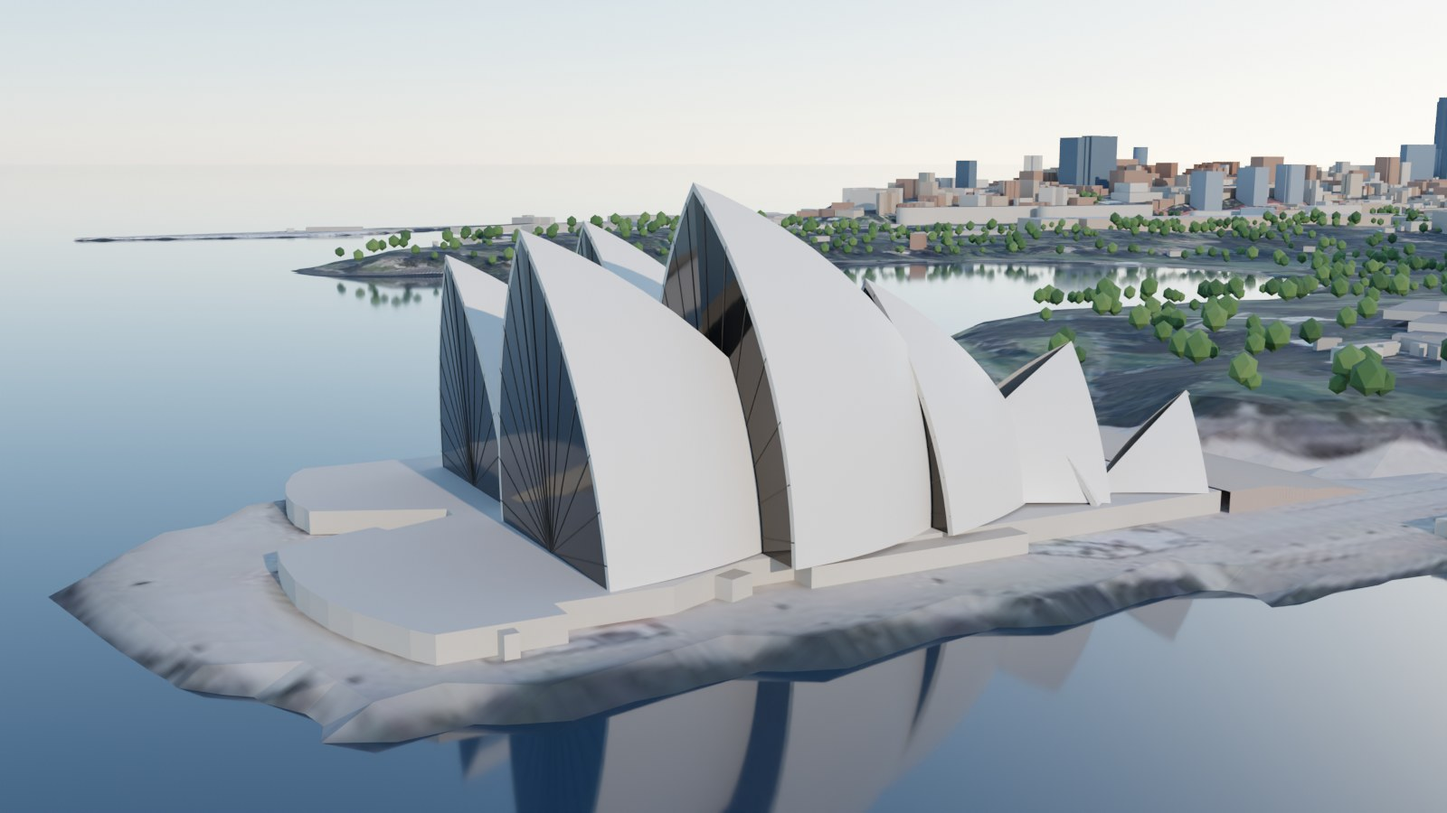
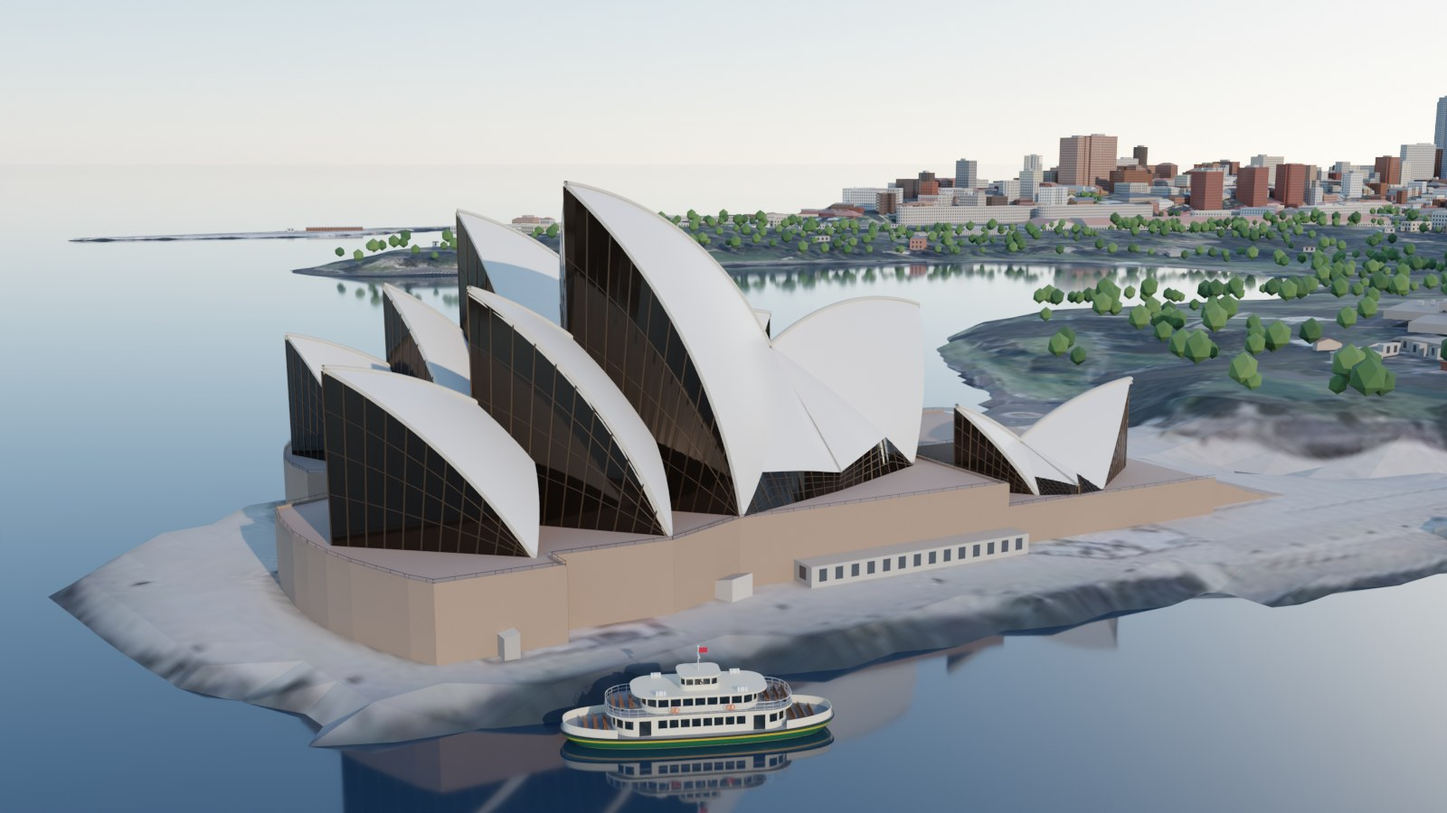
Sydney docs: the rebuilt Opera House, the steps and the gulls
The case study, the game notes, the architecture and the guide to adding a
city describe the Opera House on its mapped ridges, the two-level podium and
its flights, the granite pattern and paving laid over a roof, and the flocks
of gulls. The Monumental Steps picture is retaken in the game, the gulls get
one of their own, and the Cycles render of the Opera House is redone.

In the Blender twin, ferries without a livery of their own now take the
city's ferry_style colours, as they do in the game. In the game, a gull's
body pitches about its hips while its legs stay upright, and the birds follow
the ground as it slopes towards the seawall.

diff --git a/web/game/gulls.js b/web/game/gulls.js
@@ -104,7 +104,7 @@ window.OEGulls = (function () {
       C[i].home = [C[i].x, C[i].y];
     }
     const m4 = new THREE.Matrix4(), q = new THREE.Quaternion(), e = new THREE.Euler(), v3 = new THREE.Vector3(), one = new THREE.Vector3(1, 1, 1), zero = new THREE.Matrix4().makeScale(0, 0, 0);
-    const shoulder = new THREE.Matrix4(), flapM = new THREE.Matrix4(), base = new THREE.Matrix4();
+    const shoulder = new THREE.Matrix4(), flapM = new THREE.Matrix4(), base = new THREE.Matrix4(), bodyM = new THREE.Matrix4(), hip = new THREE.Matrix4(), tilt = new THREE.Matrix4();
     // the birds: on the ground (pecking, walking, squabbling, on the seawall) or in the air (circling, hanging in the wind, landing)
     const G = [];
     for (let i = 0; i < n; i++) {
@@ -178,9 +178,10 @@ window.OEGulls = (function () {
           }
           continue;
         }
-        // on the ground
+        // on the ground, which slopes towards the seawall
         g.t -= dt;
         g.roll *= Math.exp(-dt * 6);
+        g.z = zAt(g.x, g.y);
         if (g.task === 'perch') { // on the seawall, looking out over the water
           g.h = g.perch.h + Math.sin(lastT * 0.6 + g.i * 3) * 0.5;
           if (g.t < 0) { if (dark < 0.6 && rnd() < 0.5) takeOff(g); else { g.perch.taken = false; g.perch = null; g.task = 'walk'; g.tx = boxAt.x + (rnd() - 0.5) * 2; g.ty = boxAt.y + (rnd() - 0.5) * 2; } }
@@ -194,9 +195,9 @@ window.OEGulls = (function () {
             g.task = 'peck'; g.t = 2 + rnd() * 6;
           }
         } else if (g.task === 'squabble') { // wings up and a shout at a neighbour
-          g.wing = 1.05 + 0.25 * Math.sin(lastT * 14);
-          g.z = zAt(g.x, g.y) + Math.abs(Math.sin(lastT * 7)) * 0.08;
-          if (g.t < 0) { g.wing = 0; g.z = zAt(g.x, g.y); g.task = 'walk'; const a = rnd() * 6.28; g.tx = g.x + Math.sin(a) * 0.9; g.ty = g.y + Math.cos(a) * 0.9; }
+          g.wing = 0.7 + 0.35 * Math.sin(lastT * 16 + g.i);
+          g.z += Math.abs(Math.sin(lastT * 7)) * 0.08;
+          if (g.t < 0) { g.wing = 0; g.task = 'walk'; const a = rnd() * 6.28; g.tx = g.x + Math.sin(a) * 0.9; g.ty = g.y + Math.cos(a) * 0.9; }
         } else { // pecking at the chips
           g.peck += dt * (1.1 + g.i % 3 * 0.25);
           const ph = g.peck % 1;
@@ -221,20 +222,22 @@ window.OEGulls = (function () {
       const cnt = [0, 0];
       for (const g of G) {
         const ty = g.young ? 1 : 0, k = cnt[ty]++;
-        e.set(g.pitch, Math.PI - g.h, g.roll, 'YXZ'); q.setFromEuler(e);
+        e.set(0, Math.PI - g.h, g.roll, 'YXZ'); q.setFromEuler(e);
         base.compose(W(g.x, g.y, g.z), q, v3.set(g.k, g.k, g.k));
-        meshes.body[ty].setMatrixAt(k, base);
         meshes.legs[ty].setMatrixAt(k, g.air ? zero : base);
+        // the body pitches about the hips (pecking, or nose up in the air), the legs stay upright
+        bodyM.multiplyMatrices(base, hip.makeTranslation(0, 0.11, 0)).multiply(tilt.makeRotationX(g.pitch)).multiply(hip.makeTranslation(0, -0.11, 0));
+        meshes.body[ty].setMatrixAt(k, bodyM);
         const spread = g.air || g.wing > 0.01;
         for (const [m, s] of [[meshes.wingL, 1], [meshes.wingR, -1]]) {
           if (!spread) { m.setMatrixAt(g.i, zero); continue; }
           shoulder.makeTranslation(s * 0.05, 0.2, 0.035);
           flapM.makeRotationZ(s * g.wing).multiply(m4.makeScale(s, 1, 1));
-          m.setMatrixAt(g.i, m4.multiplyMatrices(base, shoulder).multiply(flapM));
+          m.setMatrixAt(g.i, m4.multiplyMatrices(bodyM, shoulder).multiply(flapM));
         }
         if (g.chip !== null) { // the chip in its bill
           const c = C[g.chip];
-          v3.set(0, 0.24, 0.2).applyMatrix4(base);
+          v3.set(0, 0.24, 0.2).applyMatrix4(bodyM);
           c.x = v3.x; c.y = -v3.z; c.z = v3.y; c.h = g.h + Math.PI / 2;
         }
       }

diff --git a/cities/sydney/city.py b/cities/sydney/city.py
@@ -109,7 +109,7 @@ SHELLS = {
     "joan_sutherland": [(-1, 39.1, 14.0, 11.3), (1, 61.1, 12.5, 19.4), (1, 47.0, 11.8, 21.5), (1, 38.0, 13.5, 18.2)],
     "restaurant": [(-1, 28.0, 19.0, 14.0), (1, 26.0, 10.6, 11.5)],
 }
-HALL_NAMES = {"concert": "Concert Hall", "joan_sutherland": "Joan Sutherland Theatre", "restaurant": "Bennelong"}
+HALL_NAMES = {"concert": "Concert Hall", "joan_sutherland": "Joan Sutherland Theatre"}
 RESTAURANT_SPLIT = 0.65  # how far along the restaurant's ridge its two shells meet, back to back
 JUNCTION_M = {"concert": 23.0, "joan_sutherland": 20.5, "restaurant": 8.0}  # how high above the podium the back-to-back shells' ridges meet
 SIDE_GLASS_M = {"concert": 6.0, "joan_sutherland": 5.5, "restaurant": 3.0}  # the glass under the side shells, at its highest

diff --git a/blender/build_scene.py b/blender/build_scene.py
@@ -250,6 +250,10 @@ def add_vehicles(data, counts):
     def livery(kind):
         I, spec = info[kind], (G.get("vehicles") or {}).get(kind, {}).get("livery")
         base = I["liveries"][I["default_livery"]]
+        style = G.get("ferry_style") or {}
+        if kind == "ferry" and spec is None and style.get("hull"):  # as the game does: the colours of the city's ferry_style
+            spec = {"hull": style["hull"], "band": style.get("trim"), "cabin": style.get("upper"), "trim": style.get("upper"), "flag": style.get("flag")}
+            spec = {k: v for k, v in spec.items() if v}
         if isinstance(spec, str):
             return I["liveries"].get(spec, base)
         return dict(base, **(spec or {}))

diff --git a/docs/ADDING_A_CITY.md b/docs/ADDING_A_CITY.md
@@ -83,7 +83,7 @@ north (y) of `origin`, with z in metres of the vertical datum.
 | `tour` | no | Stops: `{title, text, date: [M, D], from, to, hold, cam, tgt}`, or `place` instead of `cam`/`tgt`, plus `provenance: true` to colour by height source. See the tokens below |
 | `renders` | no | Blender views: `{name, cam, tgt, date: [Y, M, D], time}` |
 | `sources` | no | Extra lines for the viewer's source list, such as `{landmarks: "..."}` |
-| `game` | no | The game, if the city has one: `title`; `local_name` (what passers-by are called, such as `Melburnian`); `water_name`; `start` (`at`, `facing`); `wharves` (`id`, `name`, Overture `terminal` name); `ferries` (`route`, `stops`, `vessels`); `ferry_speed_ms`; `helipads` (`from_data: true` takes a mapped helipad, the one nearest `near` if given); `crowd` (`pedestrians`, `cars`, `radius_m`); `climate` (`mean_max_c`: the twelve monthly mean daily maximum temperatures in °C, and their `source`), which decides whether the crowd looks for sun or shade on the benches; `blurb` (the title screen's line); `boardwalks` (`name` of a mapped walkway line, or a `line` in the local frame, and `width_m`: walkable timber decks at the pier deck height); `wildlife` (a colony: `kind: "little_penguin"`, `name`, `on` (the infrastructure class it lives on), `colony_near`, `within_m`, `seaward_bearing_deg`, `count`, `show`, `height_m`, `ashore_after_sunset_min`, `leave_before_sunrise_min`, `day_ashore_share`, `viewing` (the name of its mapped viewing platform), `viewing_note`, `keep_off_note`, `note`, `source`); `travel` (`id`, `name`, `at`: fast-travel points, unlocked by visiting); `links` (`id`, `name`, `how`: neighbouring cities in the menu); `npcs` (`id`, `name`, `role`, `at`, `look`, `idle` lines); `quests` (`id`, `giver`, `title`, `stamp`, `talk` lines, optional `choices`, `steps`). A `look` names a `character` from `web/assets/people/people.json` and recolours it: `skin`, `hair`, `top`, `legs` (sRGB hex). Step types: `talk`, `ride`, `surface`, `under_bridge`, `land`, `sun`, `inspect`, `visit` (`at` and `radius`, or a `place`; with `after_dark: true` only once the sun is down) and `penguins` (`count` birds ashore within `radius`). A choice can carry an `action`: `set_time` (`date`, `time`) or `dusk` (ten minutes before today's sunset). `ferry_style` `{model, length_m, beam_m, hull, trim, upper, flag, note}` picks the shared ferry (`model`: `harbour` for the 34 m harbour ferry or `river` for the 22 m river shuttle; without it, by `length_m`), sizes it and gives it the city's livery. A wharf whose terminal name several berths share takes `near` `[x, y]`: the berth nearest it. `rail` `{tram: {class, keep, gauge_m, length_m, width_m, height_m, speed_ms, spacing_m, stop_every_m, liveries, min_length_m, note}, funicular: {class, climb: true, name, stations, gauge_m, length_m, width_m, height_m, livery, trim, speed_ms, dwell_s, car_names, note}}` runs trams and a funicular on the Overture rail lines of those classes (`web/game/rail.js`); a `rail` step `{from, to}` rides the funicular between its stations. `vehicles` picks the look of the shared vehicles: `helicopter` (`livery`, `registration`, `logo`), `ferry` (`livery`) and `cars` (`taxi`: `colours`, `share`; `bus`: `colour`, `band`; `colours` for private cars); without a ferry livery the ferries take `ferry_style`'s colours. `sky` `{clouds, cloud_density, post}` sets the game's cloud cover (0–1, default 0.3) and can turn the post stack off. `shade_landmarks` lists landmark mesh name prefixes that shade the sun meter, and `under_bridge_note` is the line shown on flying under a `fly_under` surface. NPC lines take the tour tokens, plus `{time}`, `{sun_line}`, `{share:source}`, `{sunset}`, and `{penguins_from}` and `{penguins_to}` (when tonight's first and last rafts come in). See the Sydney, Melbourne, Melbourne Bayside and Hong Kong configs and [GAME.md](GAME.md). Flavour keys: `greeting` or `smalltalk` (the crowd's lines), `player_looks`; `crowd.style`, a preset's name from `web/game/people.js` (`tokyo`, `kyoto`) or `{skin, hair, tops, legs, weights, scale, patterns, acc}` (the crowd's palette and the share wearing a pattern or an accessory); an NPC's `look` may also carry `pattern` (`leopard`, `tiger`, `kuidaore`, `pinstripe`, `plaid`) and `acc` (accessory ids, see `web/game/people.js`); see Osaka's config. |
+| `game` | no | The game, if the city has one: `title`; `local_name` (what passers-by are called, such as `Melburnian`); `water_name`; `start` (`at`, `facing`); `wharves` (`id`, `name`, Overture `terminal` name); `ferries` (`route`, `stops`, `vessels`); `ferry_speed_ms`; `helipads` (`from_data: true` takes a mapped helipad, the one nearest `near` if given); `crowd` (`pedestrians`, `cars`, `radius_m`); `climate` (`mean_max_c`: the twelve monthly mean daily maximum temperatures in °C, and their `source`), which decides whether the crowd looks for sun or shade on the benches; `blurb` (the title screen's line); `boardwalks` (`name` of a mapped walkway line, or a `line` in the local frame, and `width_m`: walkable timber decks at the pier deck height); `wildlife` (a colony: `kind: "little_penguin"`, `name`, `on` (the infrastructure class it lives on), `colony_near`, `within_m`, `seaward_bearing_deg`, `count`, `show`, `height_m`, `ashore_after_sunset_min`, `leave_before_sunrise_min`, `day_ashore_share`, `viewing` (the name of its mapped viewing platform), `viewing_note`, `keep_off_note`, `note`, `source`); `flocks` (birds round a spot on the ground: `id`, `kind: "silver_gull"`, `name`, `at`, `count`, `perch_m` (how far along the seawall they stand), `note`, `source`); `travel` (`id`, `name`, `at`: fast-travel points, unlocked by visiting); `links` (`id`, `name`, `how`: neighbouring cities in the menu); `npcs` (`id`, `name`, `role`, `at`, `look`, `idle` lines); `quests` (`id`, `giver`, `title`, `stamp`, `talk` lines, optional `choices`, `steps`). A `look` names a `character` from `web/assets/people/people.json` and recolours it: `skin`, `hair`, `top`, `legs` (sRGB hex). Step types: `talk`, `ride`, `surface`, `under_bridge`, `land`, `sun`, `inspect`, `visit` (`at` and `radius`, a `place`, or a `flock`; with `after_dark: true` only once the sun is down) and `penguins` (`count` birds ashore within `radius`). A choice can carry an `action`: `set_time` (`date`, `time`) or `dusk` (ten minutes before today's sunset). `ferry_style` `{model, length_m, beam_m, hull, trim, upper, flag, note}` picks the shared ferry (`model`: `harbour` for the 34 m harbour ferry or `river` for the 22 m river shuttle; without it, by `length_m`), sizes it and gives it the city's livery. A wharf whose terminal name several berths share takes `near` `[x, y]`: the berth nearest it. `rail` `{tram: {class, keep, gauge_m, length_m, width_m, height_m, speed_ms, spacing_m, stop_every_m, liveries, min_length_m, note}, funicular: {class, climb: true, name, stations, gauge_m, length_m, width_m, height_m, livery, trim, speed_ms, dwell_s, car_names, note}}` runs trams and a funicular on the Overture rail lines of those classes (`web/game/rail.js`); a `rail` step `{from, to}` rides the funicular between its stations. `vehicles` picks the look of the shared vehicles: `helicopter` (`livery`, `registration`, `logo`), `ferry` (`livery`) and `cars` (`taxi`: `colours`, `share`; `bus`: `colour`, `band`; `colours` for private cars); without a ferry livery the ferries take `ferry_style`'s colours. `sky` `{clouds, cloud_density, post}` sets the game's cloud cover (0–1, default 0.3) and can turn the post stack off. `shade_landmarks` lists landmark mesh name prefixes that shade the sun meter, and `under_bridge_note` is the line shown on flying under a `fly_under` surface. NPC lines take the tour tokens, plus `{time}`, `{sun_line}`, `{share:source}`, `{sunset}`, and `{penguins_from}` and `{penguins_to}` (when tonight's first and last rafts come in). See the Sydney, Melbourne, Melbourne Bayside and Hong Kong configs and [GAME.md](GAME.md). Flavour keys: `greeting` or `smalltalk` (the crowd's lines), `player_looks`; `crowd.style`, a preset's name from `web/game/people.js` (`tokyo`, `kyoto`) or `{skin, hair, tops, legs, weights, scale, patterns, acc}` (the crowd's palette and the share wearing a pattern or an accessory); an NPC's `look` may also carry `pattern` (`leopard`, `tiger`, `kuidaore`, `pinstripe`, `plaid`) and `acc` (accessory ids, see `web/game/people.js`); see Osaka's config. |
 
 Tour text can hold tokens that the viewer fills in from the model:
 
@@ -167,6 +167,14 @@ A material's `pattern` is drawn by the browser from the mesh's UVs
   deck. u is metres along it, and v is metres across.
 - `railing` with `bar_m` and `rails_m: [bottom, top]`: bars cut out of a
   `panel`.
+- `granite` with `joints_m: [across, along]` and an optional `stair` (`tread` or
+  `riser`): reconstituted granite and its slab joints, u and v in metres. A
+  tread's v runs back from its nosing; a riser's v runs from its foot (0) to
+  its top (1), and the shadow under the nosing is drawn on it.
+
+`decal: true` marks paving laid over a building's roof, such as a podium's
+deck: the browser draws it in front of the roof, and the game walks on the roof
+under it rather than counting it as a solid.
 
 When a landmark replaces the solids OSM maps for it, as Sydney Tower does, keep
 the solids and call `ctx.hide(solid)` on each of them (entries of `geoms`) in

diff --git a/docs/GAME.md b/docs/GAME.md
@@ -33,8 +33,8 @@ Open it from the globe (**Play** on a city card), from the 3D model (the
 | ![](images/sydney/game-martin-place.jpg) | ![](images/sydney/game-night.jpg) |
 | **Surveying from the trig station at mid-arch** | **The height challenge** |
 | ![](images/sydney/game-trig.jpg) | ![](images/sydney/game-guess.jpg) |
-| **Photo mode: a saved picture, captioned with the time and the sun** | |
-| ![](images/sydney/game-photo.jpg) | |
+| **Photo mode: a saved picture, captioned with the time and the sun** | **Silver gulls fighting over a box of chips by the Opera Bar** |
+| ![](images/sydney/game-photo.jpg) | ![](images/sydney/game-gulls.jpg) |
 | **The Opera House's Monumental Steps** | **Melbourne: Hannah explains DDO10 in City Square** |
 | ![](images/sydney/game-steps.jpg) | ![](images/melbourne/game-dialogue.jpg) |
 | **The river shuttle on the Yarra** | **Past the Arts Centre spire** |
@@ -69,7 +69,7 @@ survey) end at once on any key or drag.
 
 The survey comes in lines. After a welcome, three surveys run side by side, in
 any order, and a report back waits for all three. The Sydney survey has seven
-stamps:
+stamps, and an eighth for the locals:
 - **Welcome** (Ava, at Circular Quay): she sets out the three surveys and asks
   which you want to start with.
 - **The harbour** (Marco, at the Opera House), two stamps:
@@ -83,6 +83,8 @@ stamps:
   - then, with Tom, use the survey lens on three buildings whose heights come from
     different sources.
 - **Report back** (Ava): opens once the three surveys are done.
+- **The locals** (Jess, a waiter at the Opera Bar), on the side: walk up to the
+  silver gulls fighting over a box of hot chips by the water.
 
 A step counts whether its line is tracked or not. If you stand in the sun in Martin
 Place on the way to the ferry, the ground survey moves on. <kbd>T</kbd>, or a tap
@@ -234,16 +236,24 @@ pipeline writes. The only city-specific code is landmark geometry in
     on the rocks, and landing places on their seaward edge with open water 6, 20
     and 40 m out. Its rocks are a no-go area, and footways across them are
     dropped.
+  - **Flocks:** a spot snapped to open ground, with places on the seawall
+    within `perch_m` where the birds stand. A quest step that visits a flock is
+    given its position.
   - **Travel points and links:** fast-travel points on the ground, and
     neighbouring cities named in the menu.
-- **Opera House steps** (`city.py`): the Monumental Steps are 90 m wide and run
-  40 m from the forecourt to the podium, as measured on the NSW aerial photo.
-  They climb in two flights of 15 cm risers, with a landing between them and
-  one at the top. A short ramp at the foot meets the forecourt, where the 5 m
-  terrain dips up to 2 m into the vehicle concourse entrance. They are a walkable strip whose profile follows every riser,
-  so feet land on the treads. Footways that cross them are draped onto them,
-  so the crowd uses them too. The risers are a darker granite, so the steps
-  read from a distance.
+- **Opera House steps** (`city.py`): the Monumental Steps are 85 m wide and run
+  17.6 m from the forecourt to a landing, as measured on the NSW aerial photo:
+  three flights of 0.39 m treads and 15 cm risers, between landings 1.6 m deep.
+  A short ramp at the foot meets the forecourt, where the 5 m terrain dips up
+  to 2 m into the vehicle concourse entrance. From the landing, a flight in
+  front of each hall climbs 11.6 m to the upper podium. Each flight is a
+  walkable strip whose profile follows every riser, so feet land on the
+  treads, and the landing is one too. Footways that cross them are draped onto
+  them, so the crowd uses them too. Each tread has a pale nosing over a darker
+  riser, with the shadow under the nosing drawn on it, so the steps read as
+  steps from any side and any distance. A strip's slab stops at the lowest
+  point of its surface in each 2 m cell, so a walker on a stair never meets a
+  lip above the knee.
 - **Bridge deck** (`city.py`):
   - The deck runs level across the arch and pylons.
   - The approach viaducts then descend at 5% until they meet the ground, the
@@ -353,6 +363,19 @@ pipeline writes. The only city-specific code is landmark geometry in
     where it would be by then.
   - **Quest step:** a `penguins` step completes when enough birds are ashore
     near you.
+- **Gulls** (`web/game/gulls.js`): a flock of silver gulls works a spot on the
+  ground (`game.flocks`), Sydney's round a dropped box of hot chips by the Opera
+  Bar. Four instanced meshes draw them: bodies, legs and each wing.
+  - **On the ground:** they peck at the chips, squabble over them with their
+    wings up, and now and then make off with one. A few stand on the seawall
+    beside the spot, looking out over the water.
+  - **In the air:** they circle, flapping and gliding, hang in the wind over the
+    chips before they land, and cast their shadows on the broadwalk.
+  - **You:** walk into them and they go up, the rest of the flock a moment
+    after; they come back once you have moved on. Their calls are synthesised
+    in `audio.js`.
+  - **The map:** a gull marks the flock on the map and the minimap, and a label
+    names it in the street. A `visit` step with `flock` goes to it.
 - **Traffic** (`web/game/actors.js`):
   - **Pedestrians and cars:** both spawn within about 450 m of the player.
   - **Cars:** sedans, hatchbacks, SUVs, vans, the city's taxis and its buses,

diff --git a/README.md b/README.md
@@ -50,7 +50,8 @@ The model is also a game.
   know it. You climb the Opera House's Monumental Steps, ride the Cross Harbour
   ferry and walk onto the Harbour Bridge with the traffic. Then you fly a
   helicopter under its deck, and find a sunny spot in Martin Place on the
-  winter solstice.
+  winter solstice. By the Opera Bar, silver gulls fight over a dropped box of
+  hot chips, and go up in a cloud when you walk into them.
 - **Melbourne:** you check the midwinter sun on Federation Square, take a
   shuttle down the Yarra, and fly past the Arts Centre spire.
 - **Melbourne's bayside:** you walk out along St Kilda Pier and wait on the
@@ -149,7 +150,7 @@ whose every line is computed from the model or cited. Open **Great Barrier Reef*
 
 | City | Status | What's in it |
 |---|---|---|
-| **Sydney**, Australia | **Live** | 7,962 buildings (4,190 with pitched roofs) and 6,096 trees across 3.0 × 4.8 km. The Opera House, Harbour Bridge and Sydney Tower are built to their published geometry. Sun access is tested on the public places protected by Sydney LEP 2012 cl. 6.18. Heights are checked against 35 published towers (median error 4.5%). [Case study](docs/cities/sydney.md) |
+| **Sydney**, Australia | **Live** | 7,962 buildings (4,190 with pitched roofs) and 6,096 trees across 3.0 × 4.8 km. The Opera House stands on the shell ridges OpenStreetMap maps for its roof, and the Harbour Bridge and Sydney Tower are built to their published geometry. Sun access is tested on the public places protected by Sydney LEP 2012 cl. 6.18. Heights are checked against 35 published towers (median error 4.5%). [Case study](docs/cities/sydney.md) |
 | **Melbourne**, Australia | **Live** | 13,050 buildings (4,530 with pitched roofs) and 11,335 trees across 4.8 × 3.9 km, on Geoscience Australia's 5 m LiDAR terrain. That terrain agrees with 238 surveyed spot heights to 0.26 m at the median. Heights are checked against 42 published towers: 21 are matched by address, with a median error of 0.2%. Sun access is tested on the public spaces the planning scheme protects (DDO10). There is no open aerial imagery, so the ground is drawn from the map data. [City notes](docs/cities/melbourne.md) |
 | **Melbourne Bayside**, Australia | **Live** | Port Phillip's shore from St Kilda to Brighton: 9,335 buildings (6,561 with pitched roofs) and 4,524 trees across 3.2 × 7.7 km. The terrain agrees with 12 surveyed spot heights to 0.21 m at the median. The 96 Brighton bathing boxes and Luna Park's Scenic Railway and Mr Moon are kit-built. In the game, little penguins come ashore on the St Kilda breakwater after the real sunset. [City notes](docs/cities/melbourne-bayside.md) |
 | **Osaka**, Japan | **Live** | 73,267 buildings (32,955 solids with pitched roofs) across 4.5 × 6.4 km, from Umeda to Shinsekai with Osaka Castle. 89% of the roof area carries a height measured for Project PLATEAU; GSI's 5 m laser DEM is the terrain. The castle keep, Tsutenkaku, the HEP FIVE wheel and the Dotonbori signs are built to published dimensions. A winter-sun study of eight parks, and *Osaka on Foot*, a game with Osaka people. [Case study](docs/cities/osaka.md) |

diff --git a/docs/ARCHITECTURE.md b/docs/ARCHITECTURE.md
@@ -37,7 +37,7 @@ three.js is y-up, so the viewer draws a local point `(x, y, z)` at
 | Scene | `build_scene.py` | `scene.json`, `buildings.json`, `places.json`, `terrain.json`, `shore.png`, ground tiles; `cities/<id>/analysis/height_model.json` and `roof_model.json` |
 | Roofs and facades | `roofs.py`, `typology.py` (called by `build_scene.py`) | Per building: a facade style, storeys, colours. Per pitched solid: a roof mesh (straight skeleton). Also shopfront frontages and rooftop plant. See [BUILDINGS.md](BUILDINGS.md) |
 | Landmarks | `landmarks.py` | `landmarks.json`, from the city's `landmark_meshes` hook |
-| Game | `game_data.py` | `game.json`: walking terrain, water mask, walkable surfaces, paths, wharves, ferry routes, boardwalks, wildlife and no-go areas, travel points, NPCs and quests |
+| Game | `game_data.py` | `game.json`: walking terrain, water mask, walkable surfaces, paths, wharves, ferry routes, boardwalks, wildlife, flocks and no-go areas, travel points, NPCs and quests |
 
 `build_scene.py` also writes `web/data/cities.json` from `cities/index.json`,
 and marks each city built or not.
@@ -175,8 +175,13 @@ residuals go to `height_model.json`, and `uncertainty.js` resamples them.
   `uv` (metres) where its material has a surface pattern. Materials are
   `{color, roughness, metalness}`, optionally with a `pattern`:
   - `chevron_tiles`: the Opera House roof;
+  - `granite`: reconstituted granite, its slab joints, and on a stair the
+    nosing of each tread and the shadow under it on each riser;
   - `deck_zones`: a deck in strips across its width;
   - `railing`: bars cut out of a strip.
+
+  A material with `decal: true` is paving laid over a roof: it is drawn in
+  front of the roof, and the game does not count it as a solid.
 
   The meshes are built with `pipeline/meshkit.py`, the landmarks' counterpart
   of the vehicles' `web/game/kit.js`: boxes, tubes, lathes, swept sections,
@@ -337,6 +342,8 @@ The views switch in place, without reloading the page.
   - wildlife (`penguins.js`): a colony of little penguins in one instanced
     mesh. They are out at sea by day, come ashore in rafts after the real
     sunset and walk to burrows on the mapped rocks (`game.wildlife`);
+  - gulls (`gulls.js`): a flock of silver gulls round a box of chips, which
+    goes up when you walk into it (`game.flocks`);
   - rail (`rail.js`), where the city has it: street trams and a funicular on
     the rail lines OpenStreetMap maps;
   - HUD;
